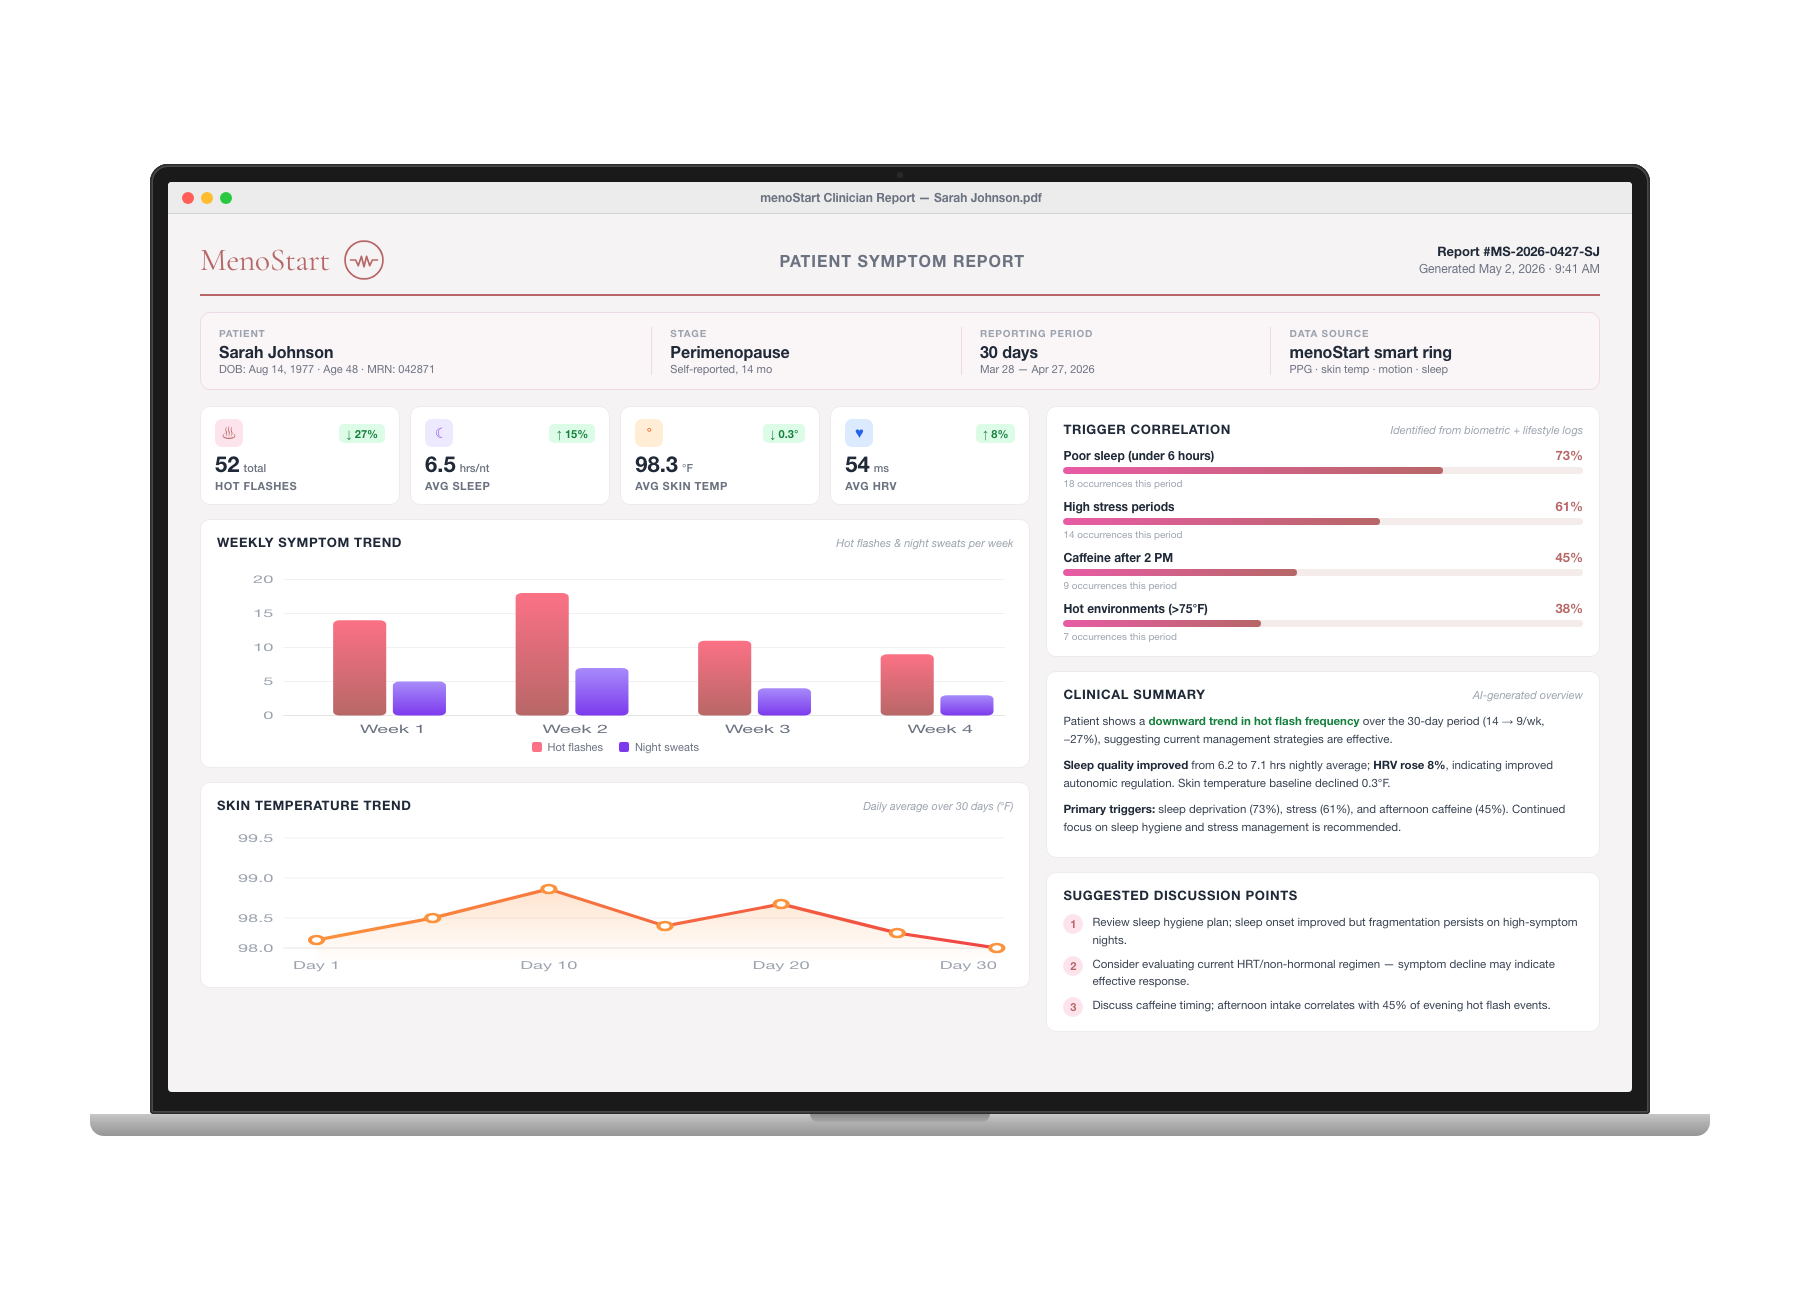
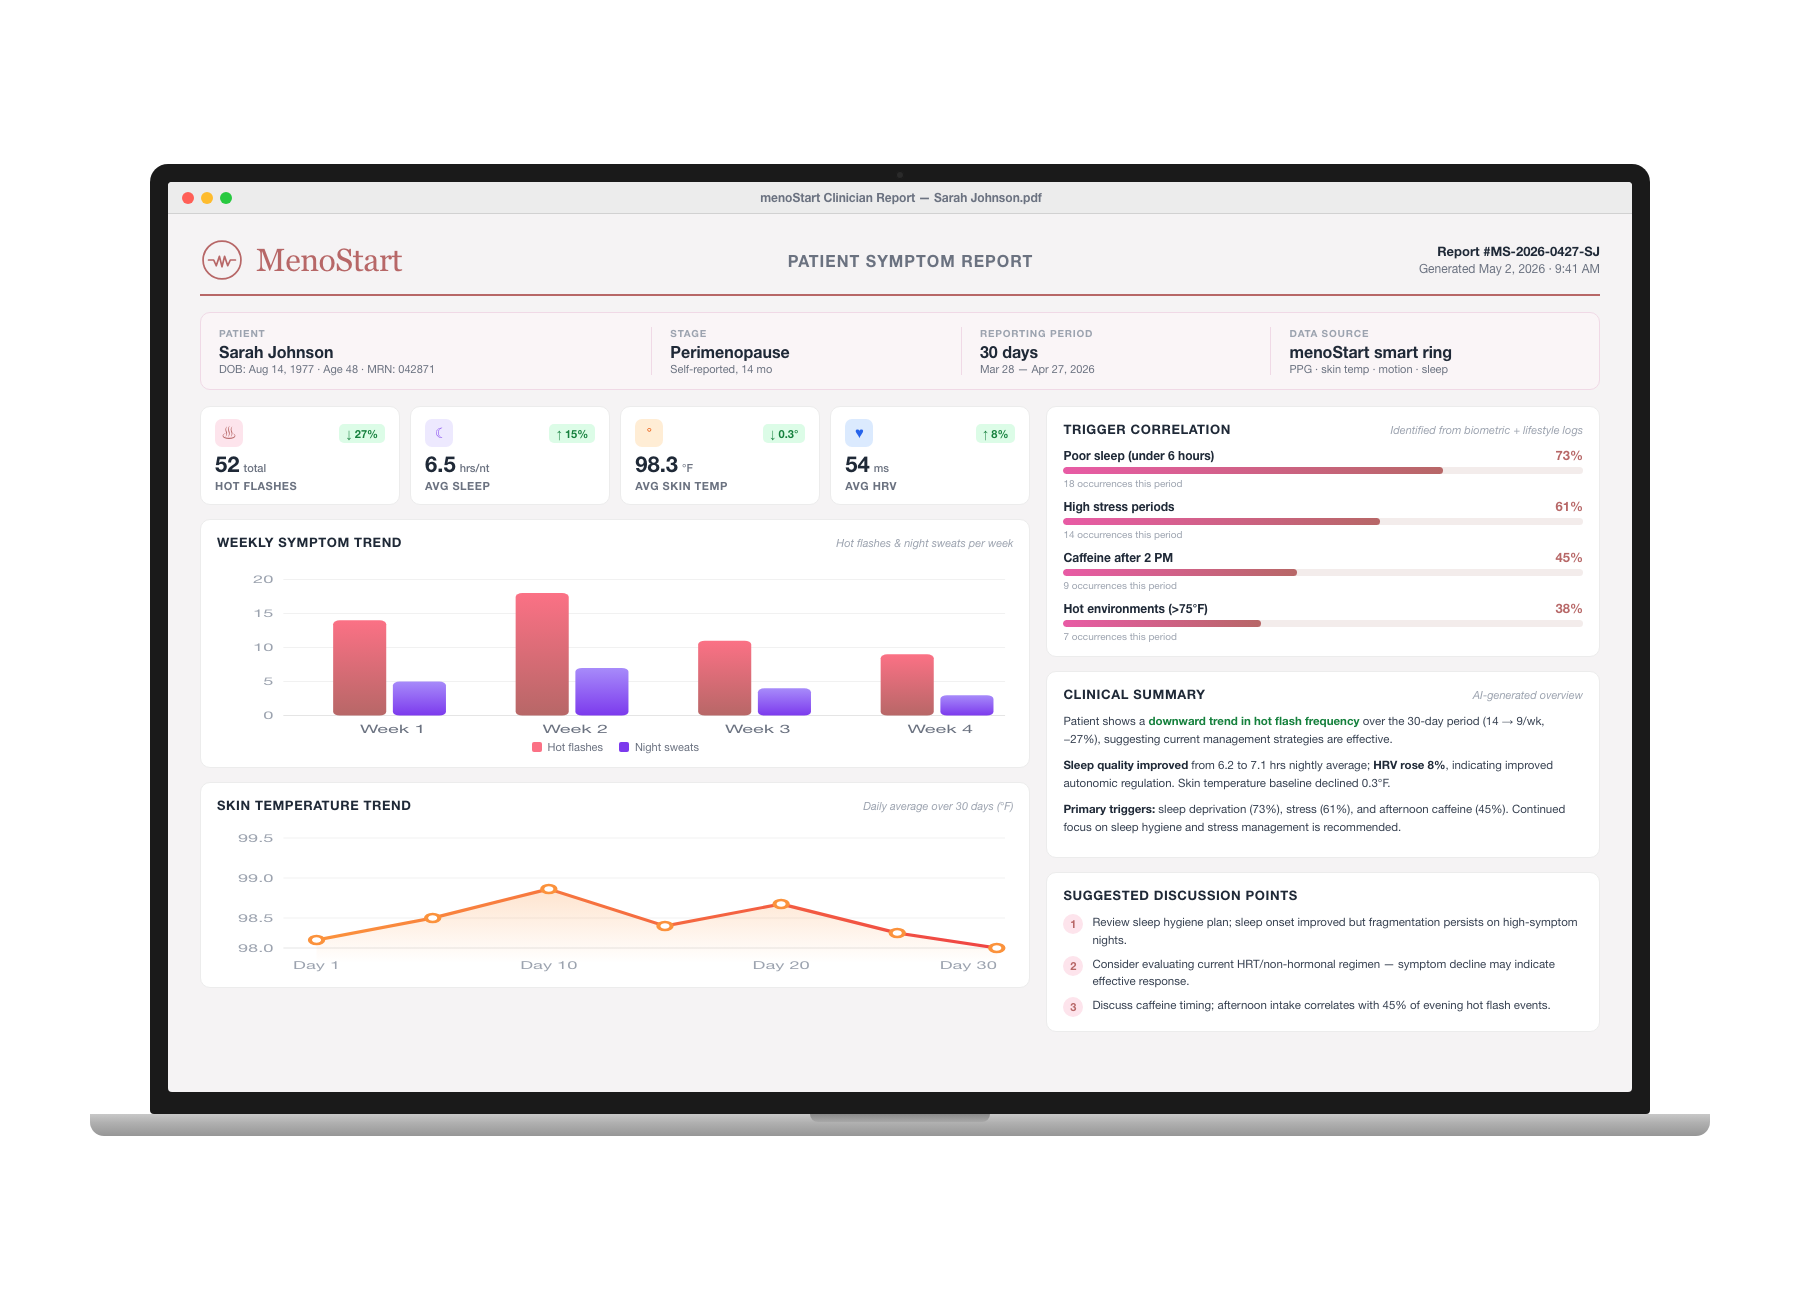
UI change

Changed region(s): [[0.4356, 0.1846, 0.56, 0.2154], [0.0933, 0.1846, 0.2178, 0.2154]]

diff --git a/mockup_laptop.html b/mockup_laptop.html
@@ -358,7 +358,6 @@
           <!-- Header -->
           <div class="r-header">
             <div class="r-brand">
-              <div class="r-brand-text">MenoStart</div>
               <svg viewBox="0 0 360 360" xmlns="http://www.w3.org/2000/svg">
                 <g transform="translate(180, 180)">
                   <circle cx="0" cy="0" r="155" fill="none" stroke="#b76767" stroke-width="14"/>
@@ -366,6 +365,7 @@
                         fill="none" stroke="#b76767" stroke-width="14" stroke-linecap="round" stroke-linejoin="round"/>
                 </g>
               </svg>
+              <div class="r-brand-text">MenoStart</div>
             </div>
             <div class="r-doc-title">Patient Symptom Report</div>
             <div class="r-doc-meta">

diff --git a/mockup_home.html b/mockup_home.html
@@ -358,7 +358,6 @@
 
         <div class="brand-row">
           <div class="brand">
-            <div class="brand-text">MenoStart</div>
             <svg viewBox="0 0 360 360" xmlns="http://www.w3.org/2000/svg">
               <g transform="translate(180, 180)">
                 <circle cx="0" cy="0" r="155" fill="none" stroke="#b76767" stroke-width="14"/>
@@ -366,6 +365,7 @@
                       fill="none" stroke="#b76767" stroke-width="14" stroke-linecap="round" stroke-linejoin="round"/>
               </g>
             </svg>
+            <div class="brand-text">MenoStart</div>
           </div>
           <div class="ring-status">
             <div class="battery-icon"><div class="battery-fill"></div></div>

diff --git a/src/app/pages/Home.tsx b/src/app/pages/Home.tsx
@@ -118,7 +118,7 @@ export function Home() {
 
       {/* Prediction Alert — the hero */}
       <Link to="/predict" className="block mb-6">
-        <div className="bg-gradient-to-br from-[#6b4570] to-[#3f2847] rounded-3xl p-5 shadow-lg text-white">
+        <div className="bg-gradient-to-br from-[#ec4899] via-[#b76767] to-[#be185d] rounded-3xl p-5 shadow-lg text-white">
           <div className="flex items-start justify-between mb-2">
             <div className="flex items-center gap-2">
               <Activity className="w-5 h-5" />
